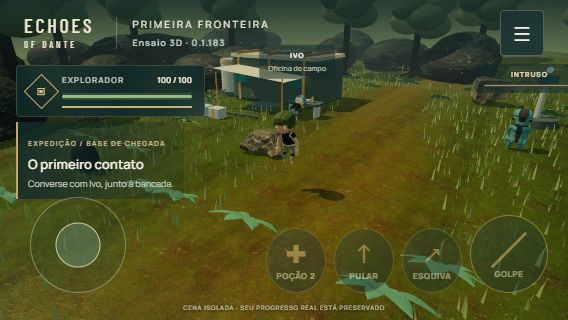
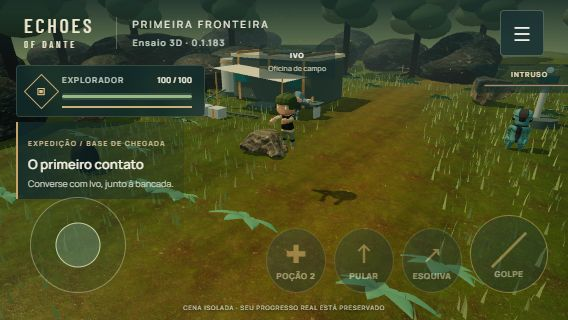
fix: keep 3D jumps below the camp awning

Changed region(s): [[0.4789, 0.2812, 0.5387, 0.5], [0.5387, 0.5938, 0.6285, 0.6562]]

diff --git a/src/experiments/frontier-3d/main.ts b/src/experiments/frontier-3d/main.ts
@@ -142,7 +142,7 @@ function tick(now:number){if(disposed)return;requestAnimationFrame(tick);const e
   const forward=scratch.subVectors(controls.target,camera.position).setY(0).normalize().clone(),right=new T.Vector3(-forward.z,0,forward.x),desired=forward.multiplyScalar(input.y).addScaledVector(right,input.x).multiplyScalar(3.5);
   velocity.lerp(desired,1-Math.exp(-dt*12));if(dodging>0){dodging-=dt;world.move(player.root.position,dodgeDirection.x*dt*9,dodgeDirection.z*dt*9);}else {world.move(player.root.position,velocity.x*dt,velocity.z*dt);if(attackTime<=0)player.face(velocity,dt);}
   if(trial.enemyHp>0){scratch.subVectors(player.root.position,enemy.root.position).setY(0);if(scratch.lengthSq()<.75*.75&&scratch.lengthSq()>.001){scratch.normalize().multiplyScalar(.75).add(enemy.root.position);if(!world.blocked(scratch.x,scratch.z))player.root.position.set(scratch.x,player.root.position.y,scratch.z);}}
-  hop.update(dt);player.root.position.y+=hop.height;
+  hop.update(dt,Math.max(0,world.ceilingHeight(player.root.position.x,player.root.position.z)-world.floorHeight(player.root.position.x,player.root.position.z)-1.9));player.root.position.y+=hop.height;
   player.update(dt,velocity.lengthSq()>.15&&dodging<=0,hop.airborne);npc.update(dt,false);npcWork-=dt;if(npcWork<=0){npc.play('PickUp',true,1.3);npcWork=5.5;}
   if(attackTime>0){attackTime-=dt;if(attackTime<.31&&!slashed){slashed=true;const distance=player.root.position.distanceTo(enemy.root.position);facing.set(0,0,1).applyQuaternion(player.root.quaternion);scratch.subVectors(enemy.root.position,player.root.position).setY(0).normalize();if(trial.stage>0&&trial.enemyHp>0&&distance<2.8&&facing.dot(scratch)>.35){trial.enemyHp=Math.max(0,trial.enemyHp-24);save();enemy.play('Punch',true,.15);tone(100,.08);if(trial.enemyHp===0){goal();notify('Clareira segura. Examine a baliza.');}}}slash.position.copy(player.root.position).add(new T.Vector3(0,1,0));slash.rotation.z=-player.root.rotation.y;(slash.material as T.MeshBasicMaterial).opacity=Math.max(0,Math.sin(attackTime/.58*Math.PI))*.7;}else(slash.material as T.MeshBasicMaterial).opacity=0;
   if(healTime>0){healTime-=dt;heal.position.copy(player.root.position).add(new T.Vector3(0,.06,0));heal.scale.setScalar(1+(1-healTime/1.15)*2);(heal.material as T.MeshBasicMaterial).opacity=healTime/1.15;}else(heal.material as T.MeshBasicMaterial).opacity=0;

diff --git a/src/experiments/frontier-3d/World.ts b/src/experiments/frontier-3d/World.ts
@@ -125,6 +125,10 @@ export class FrontierWorld {
   return this.solids.some(o=>o.radius>0&&Math.hypot(x-o.x,z-o.z)<o.radius+radius);
  }
  floorHeight(x:number,z:number){return Math.max(elevation(x,z),Math.abs(x+8.8)<1.05&&Math.abs(z+1.5)<.85?.24:0);}
+ ceilingHeight(x:number,z:number){
+  // Match the awning plane's tilt and allow room for the explorer's head radius.
+  return Math.abs(x+8.7)<3.5&&Math.abs(z+.8)<1.85?2.65-Math.tan(.08)*(x+8.7+.35)-.05:Infinity;
+ }
  move(p:T.Vector3,dx:number,dz:number,radius=.35){if(!this.blocked(p.x+dx,p.z,radius))p.x+=dx;if(!this.blocked(p.x,p.z+dz,radius))p.z+=dz;p.y=this.floorHeight(p.x,p.z);}
  async loadScenery(){
   const gltf=await new GLTFLoader().loadAsync('/assets/frontier-3d/rock-moss.glb');

diff --git a/src/experiments/frontier-3d/Jump.ts b/src/experiments/frontier-3d/Jump.ts
@@ -5,10 +5,11 @@ export class Jump {
  velocity=0;
  get airborne(){return this.height>0||this.velocity>0;}
  start(){if(this.airborne)return false;this.velocity=6.6;return true;}
- update(dt:number){
+ update(dt:number,ceiling=Infinity){
   if(!this.airborne)return;
   this.height+=this.velocity*dt-9.5*dt*dt;
   this.velocity-=19*dt;
+  if(this.height>ceiling){this.height=ceiling;this.velocity=Math.min(0,this.velocity);}
   if(this.height<=0)this.reset();
  }
  reset(){this.height=0;this.velocity=0;}

diff --git a/docs/frontier-3d/README.md b/docs/frontier-3d/README.md
@@ -11,7 +11,7 @@ Em 03/11/2026, depois de conhecer Keldurn e Last Havens, o usuário autorizou ex
 O usuário achou o ensaio interessante e pediu comandos familiares, salto e pesquisa de repositórios para melhorar as imagens. Essa avaliação autoriza a revisão do ensaio; não aprova personagens definitivos ou migração da campanha.
 
 - Teclas da campanha restauradas: mouse esquerdo ataca (inclusive segurando), Espaço esquiva, H usa poção, E interage; RB esquiva no gamepad. Salto adicional em F, X no controle e botão de toque próprio. Botão direito/arrasto touch gira a câmera; mirar com o mouse não gira a câmera. O analógico direito continua controlando a câmera 3D, uma diferença explícita em relação à mira 2D.
-- Salto com impulso, gravidade, arco de aproximadamente 1,15 m/0,70 s e animação do modelo. Permite deslocamento horizontal; não dá invulnerabilidade nem salto duplo. Combate/esquiva/interação aguardam o pouso. Pausa congela o salto; reload/morte/respawn retornam ao piso. A câmera acompanha a superfície horizontal para não sacudir verticalmente a cada salto. Rochas/paredes e cerca continuam sólidas: não é um sistema de escalada ou plataformas.
+- Salto com impulso, gravidade, arco de aproximadamente 1,15 m/0,70 s e animação do modelo. Permite deslocamento horizontal; não dá invulnerabilidade nem salto duplo. Combate/esquiva/interação aguardam o pouso. Pausa congela o salto; reload/morte/respawn retornam ao piso. A câmera acompanha a superfície horizontal para não sacudir verticalmente a cada salto. A altura também respeita o toldo inclinado do abrigo, interrompendo o impulso ao tocar o teto. Rochas/paredes e cerca continuam sólidas: não é um sistema de escalada ou plataformas.
 - Quatro rochas de aproximação recebem geometria natural e materiais 1K da Poly Haven, assentados no solo e encaixados nos raios de colisão existentes. Um lote estático, texturas compartilhadas e sem API externa no jogo. O degrau baixo do habitat agora sustenta os pés em sua altura real (0,24 m). Demais modelos/vegetação continuam sendo referência, sem alegar renovação completa do cenário.
 - [Pesquisa dos repositórios, licenças e recomendação](ASSET_RESEARCH.md). [Fontes e hashes das rochas](../../public/assets/frontier-3d/scenery.json). Os personagens adultos candidatos não foram importados nesta revisão.
 
